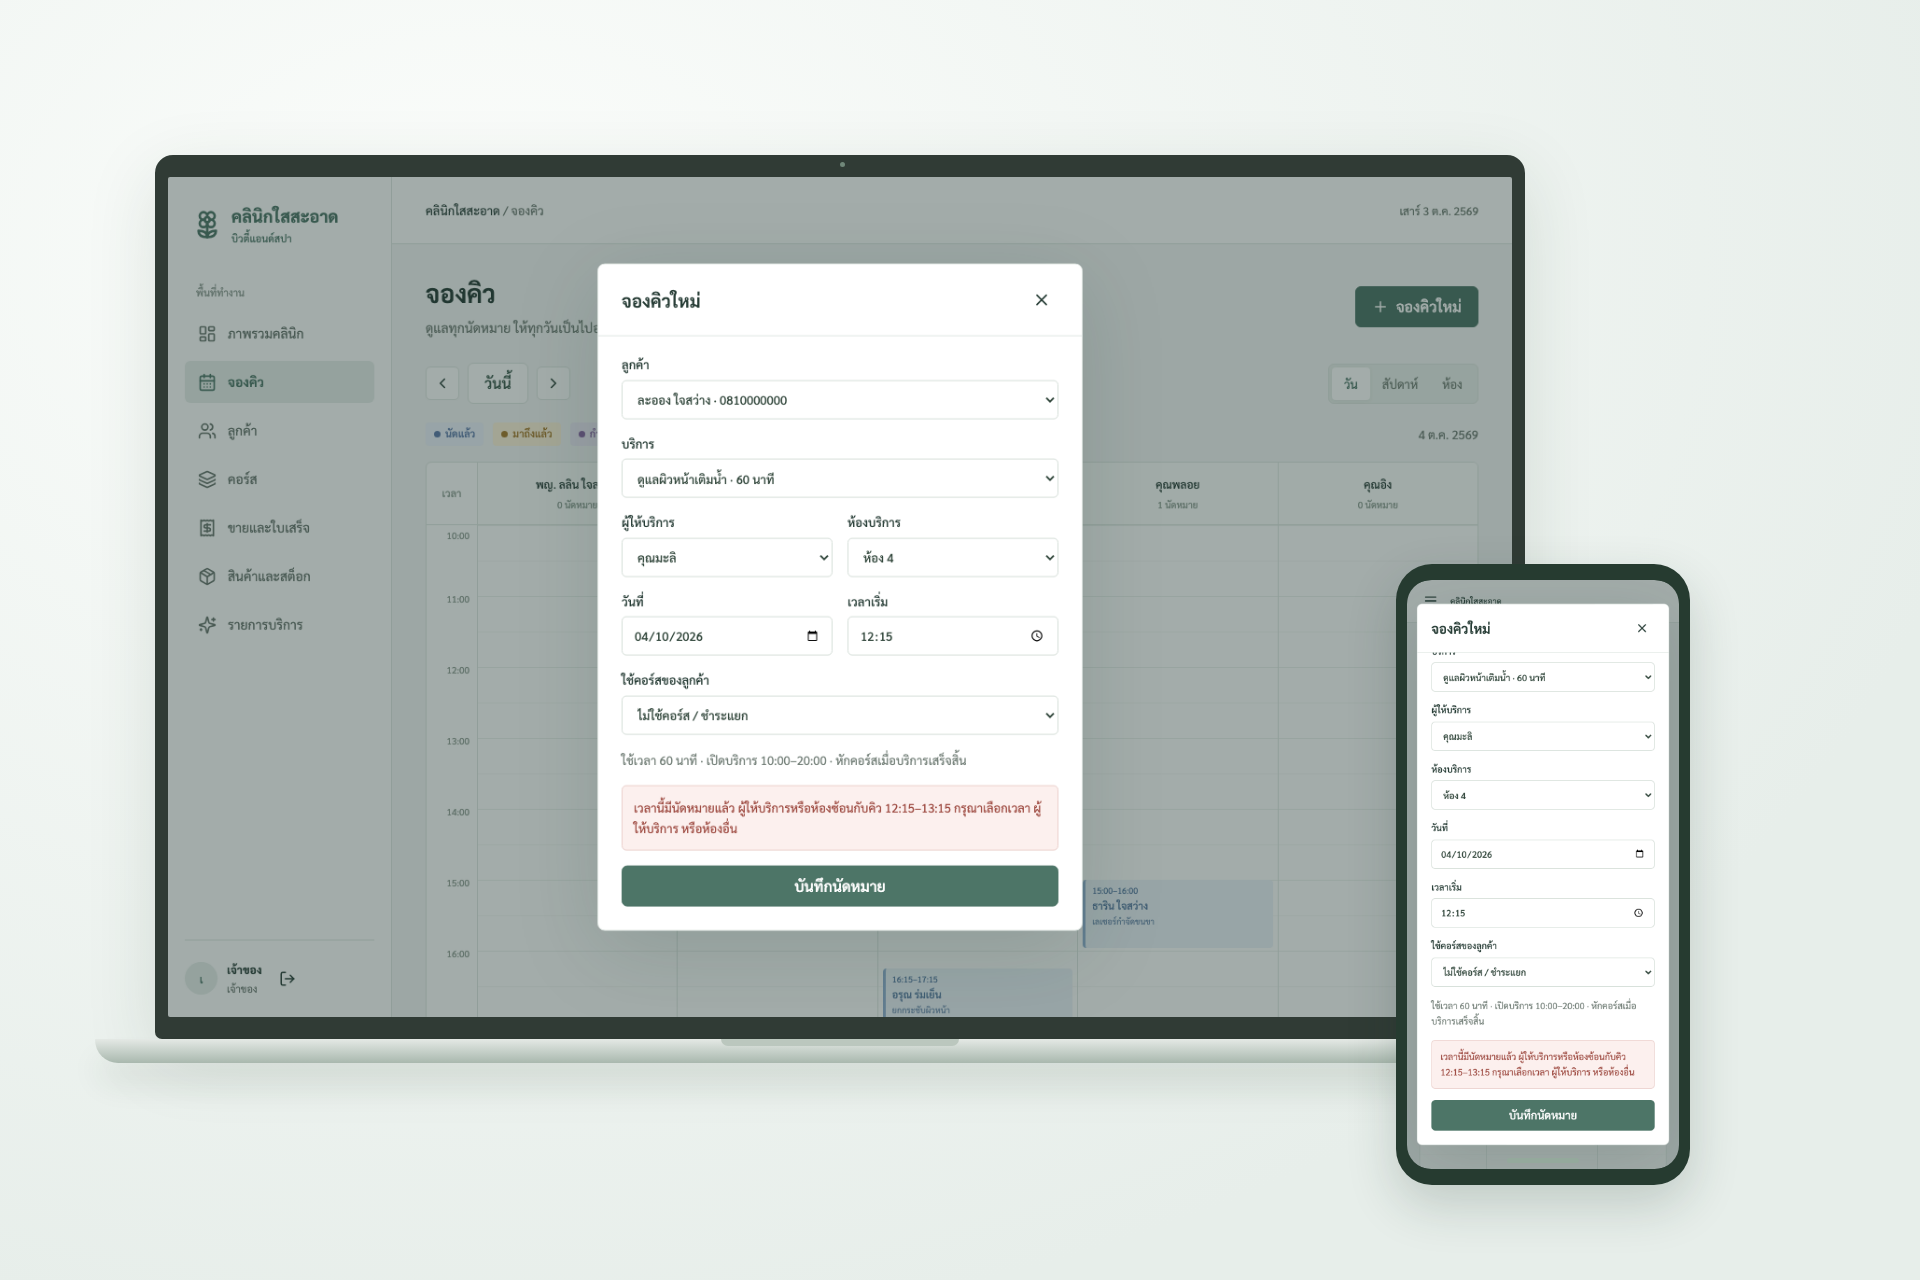
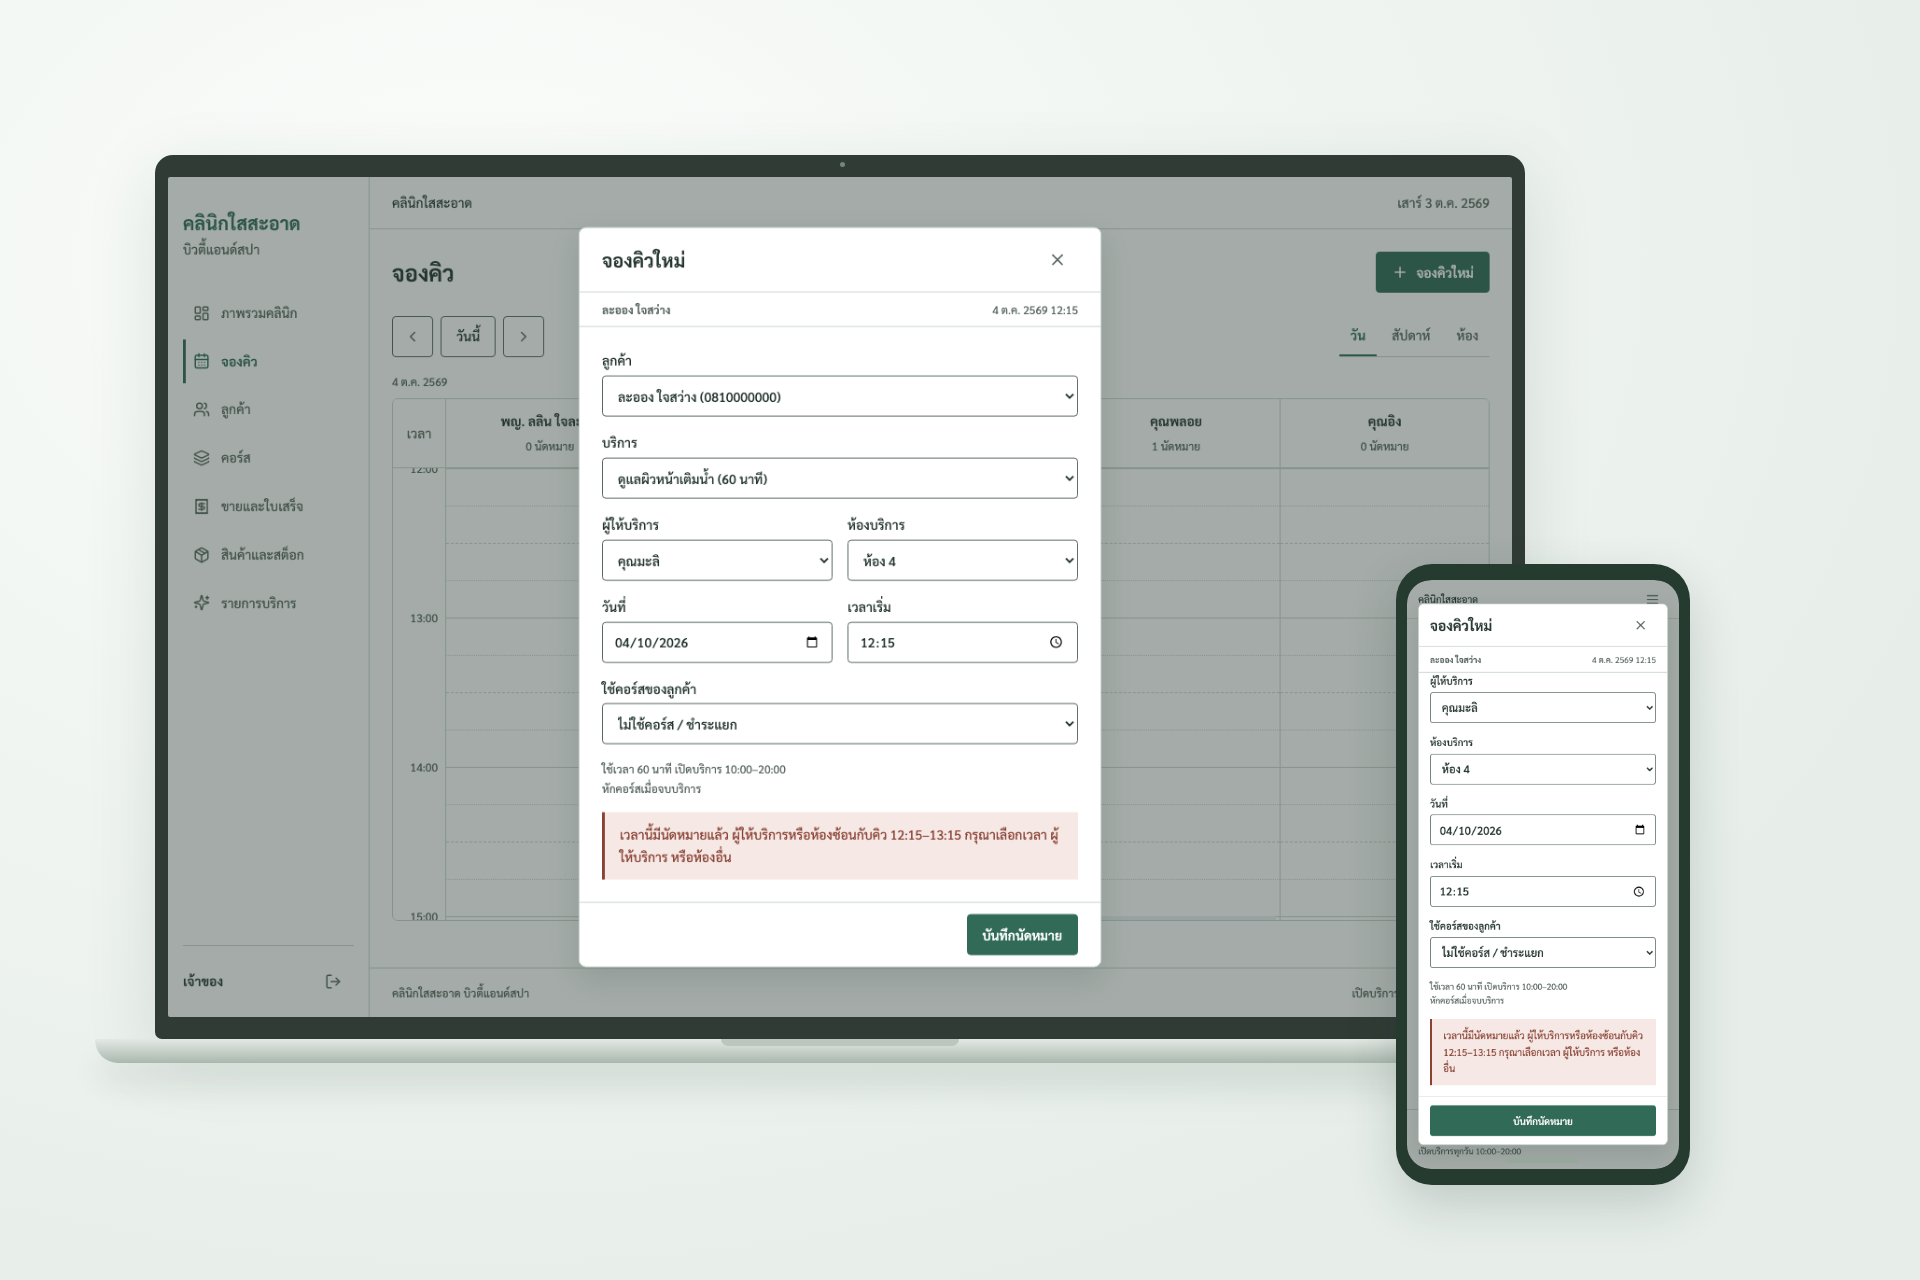
docs(layout): publish redesigned gallery and verification results

diff --git a/docs/DELIVERY.md b/docs/DELIVERY.md
@@ -1,5 +1,31 @@
 # Delivery Report
 
+## Approved UI Redesign
+
+Completed on 2026-10-03 following [DESIGN.md](DESIGN.md), with small Conventional
+Commits for the shell, dashboard, appointments, customers, courses, sales,
+inventory, treatment catalog and login. Production screenshots were regenerated
+and reviewed at both widths after each page. Domain types, services, business
+rules and routes are unchanged. The historical milestone table below describes
+the initial implementation; current assets contain **30 source PNGs and 15 galleries**.
+
+Shared tokens now control the clinic-jade palette, Thai-safe Sarabun scale,
+tabular/right-aligned numbers, purpose-specific radii, flat ledger structure,
+overlay-only elevation and static loading/reduced-motion behavior. Today’s book
+and rooms lead the dashboard; financial reports remain below. Course and stock
+counts are explicit, and mobile billing has separate catalog/bill views.
+
+Verification includes axe WCAG 2/2.1 A/AA checks on all main desktop/mobile pages,
+booking/receipt dialogs, the mobile drawer and a customer empty state; keyboard
+focus/return focus; measured equal numeral advances; actual PDF/XLSX downloads;
+and a first-viewport mobile appointment with the banner visible. Build, lint,
+12 service tests and dependency audit pass. Automated checks are not full
+accessibility certification; physical-device/assistive-technology testing remains.
+
+Recommended gallery leads: **customer profile**, **day appointments**, and
+**low stock**, for clear clinical context, real appointment geometry, and
+comparable quantities/actions on both devices. Dashboard is the best overview.
+
 ## Milestones
 
 | Milestone | Delivered                                                                                                                                         |
@@ -106,6 +132,10 @@ Every row below exists in all three directories. Desktop: 1440×900. Mobile:
 | Receipt preview  | [PNG](screenshots/desktop/receipt-preview.png)         | [PNG](screenshots/mobile/receipt-preview.png)         | [PNG](screenshots/gallery/receipt-preview.png)         |
 | Low stock        | [PNG](screenshots/desktop/inventory-low-stock.png)     | [PNG](screenshots/mobile/inventory-low-stock.png)     | [PNG](screenshots/gallery/inventory-low-stock.png)     |
 | Practitioner     | [PNG](screenshots/desktop/practitioner-schedule.png)   | [PNG](screenshots/mobile/practitioner-schedule.png)   | [PNG](screenshots/gallery/practitioner-schedule.png)   |
+| Customers        | [PNG](screenshots/desktop/customers.png)               | [PNG](screenshots/mobile/customers.png)               | [PNG](screenshots/gallery/customers.png)               |
+| Course sale      | [PNG](screenshots/desktop/course-sale.png)             | [PNG](screenshots/mobile/course-sale.png)             | [PNG](screenshots/gallery/course-sale.png)             |
+| Treatments       | [PNG](screenshots/desktop/treatments.png)              | [PNG](screenshots/mobile/treatments.png)              | [PNG](screenshots/gallery/treatments.png)              |
+| Login            | [PNG](screenshots/desktop/login.png)                   | [PNG](screenshots/mobile/login.png)                   | [PNG](screenshots/gallery/login.png)                   |
 
 **Failed/unclean captures: none.** Mobile sales focuses on the in-progress bill;
 mobile warning shows the actual rejected booking with the dialog scrolled to the

diff --git a/docs/DESIGN.md b/docs/DESIGN.md
@@ -1,7 +1,9 @@
 # Clinic Workspace Design
 
-**Status: approved on 2026-10-03; implementation in progress.** The user approved
-the plan. Preserve the audit below as the baseline and follow the per-page gates.
+**Status: approved and implemented on 2026-10-03.** Every redesigned page passed
+its production screenshot gate at both widths. The audit below is the historical
+baseline; original images remain in Git at commit `4e8f99f`, while the linked
+capture paths now show the approved redesign.
 
 ## 1. Intent and scope
 
@@ -496,6 +498,9 @@ Review verdict: **ready for approval, not implementation**. Main reason: the
 proposed information order follows a clinic day rather than a screenshot-friendly
 metric grid, and it fits the existing authorized data boundary.
 
+Implementation completed after approval. The original verdict above records the
+plan-stage review, not a remaining approval gate.
+
 ## 12. Implementation and verification gate (after approval only)
 
 1. Add central tokens and restyle shared primitives/shell through them.
@@ -539,3 +544,33 @@ metric grid, and it fits the existing authorized data boundary.
   stays inside the book. Focused labels are not clipped under sticky regions.
 - Static loading/reduced-motion behavior and AA contrast are verified, not inferred
   from screenshots. Existing build, lint, service and browser checks pass.
+
+## 13. Implementation results
+
+- All page changes use the central palette, Thai type scale, semantic state,
+  spacing and primitive tokens. Domain types, services, business rules and routes
+  have no diff from the approved-plan baseline.
+- Repeated KPI/cards/initials, promotional copy, middle-dot metadata, decorative
+  gradients and load animations were removed. Existing dates, prices, course
+  reservations, stock mutations and receipt generation are unchanged.
+- The production screenshot gate ran after each page. Coverage expanded from 22
+  to 30 screenshots to include customer directory, course-sale dialog, treatment
+  catalog and login; all 15 desktop/mobile pairs have gallery compositions.
+- Axe WCAG 2/2.1 A/AA checks pass for all main pages at 1440px and 390px, plus
+  the booking dialog, receipt, mobile drawer and customer empty state. Actual
+  success-toast contrast was repaired through the same status tokens.
+- Keyboard focus and focus return pass for booking dialogs/mobile drawer.
+  Reduced motion uses static loading/overlays. Sarabun numeral advances were
+  measured and are equal with tabular-numeral styling.
+- The real mobile dashboard, with the demo banner visible, shows a complete
+  appointment within the first viewport. PDF/XLSX downloads and role restrictions
+  still pass. Build, lint, 12 service tests and dependency audit pass.
+- These are automated Chromium checks and visual reviews, not a claim of full
+  accessibility certification. Safari/Firefox, assistive technology and physical
+  devices remain useful manual verification targets.
+
+Strongest service-gallery images: customer profile (precautions and session counts
+read cleanly on both devices), day calendar (real booking geometry and room/status
+context), and low stock (comparable quantities and clear movement actions).
+Dashboard is the strongest operational overview; it deliberately shows the
+appointment book rather than prioritizing a financial chart for the screenshot.

diff --git a/README.md b/README.md
@@ -27,7 +27,7 @@ Use a free port, for example `npm run dev -- --port 5187 --strictPort`.
 
 ## Features
 
-- Owner dashboard: daily revenue/statuses, six-month revenue, popular services,
+- Owner dashboard: today's appointment book and room context, daily revenue/statuses, six-month revenue, popular services,
   expiring courses, idle course customers and low-stock items.
 - Day/week practitioner calendars, room calendar, booking/edit/reschedule and
   status progression. Practitioner and room overlap/opening-hours validation.
@@ -37,17 +37,19 @@ Use a free port, for example `npm run dev -- --port 5187 --strictPort`.
 - Mixed treatment/course/product checkout, cash/transfer/card, Thai receipt
   preview and downloadable PDF. Actual XLSX exports for sales and stock.
 - Inventory receipts/issues and movement history; stock cannot go negative.
-- Mobile drawer, card lists, loading skeletons, empty states, confirmations,
+- Mobile drawer, compact ledgers, static loading skeletons, empty states, confirmations,
   toasts and screenshot mode (`?screenshot=1` before or after the hash).
 
 ## Stack and structure
 
 React 19, TypeScript, Vite, HashRouter, Tailwind CSS 4, source-owned shadcn/ui
 primitives (Radix + CVA), Recharts, lucide-react, date-fns, self-hosted Sarabun,
-ExcelJS, jsPDF/html2canvas, Vitest and Playwright.
+ExcelJS, jsPDF/html2canvas, Vitest, Playwright and axe-core accessibility checks.
 
 [Architecture](docs/ARCHITECTURE.md) defines routes, domain, service contracts,
 transactions and permissions. [Decisions](docs/DECISIONS.md) records assumptions.
+[Design system and verification](docs/DESIGN.md) defines the approved clinic-specific
+tokens, appointment-first layouts and plain Thai copy.
 UI never reads localStorage or seed data directly; all access is through services.
 Currency uses integer satang; displayed dates use Thai month names and Buddhist years.
 
@@ -96,7 +98,7 @@ to the server. All data must be server-authorized; never trust browser roles.
 
 [Capture index](docs/screenshots/README.md) · [Exact file manifest](docs/screenshots/manifest.json) · [Delivery report and verification checklist](docs/DELIVERY.md)
 
-22 source screenshots and 11 laptop/phone compositions. All requested scenarios
+30 source screenshots and 15 laptop/phone compositions. All requested scenarios
 captured cleanly. Set `GALLERY_WIDTH` / `GALLERY_HEIGHT` to change composition size.
 
 ![Owner dashboard, desktop and mobile](docs/screenshots/gallery/dashboard.png)
@@ -110,4 +112,12 @@ captured cleanly. Set `GALLERY_WIDTH` / `GALLERY_HEIGHT` to change composition s
 
 Additional compositions: [day appointments](docs/screenshots/gallery/appointments-day.png),
 [room calendar](docs/screenshots/gallery/appointments-room.png),
-[courses](docs/screenshots/gallery/courses.png).
+[courses](docs/screenshots/gallery/courses.png),
+[customer directory](docs/screenshots/gallery/customers.png),
+[course sale](docs/screenshots/gallery/course-sale.png),
+[treatments](docs/screenshots/gallery/treatments.png),
+[login](docs/screenshots/gallery/login.png).
+
+Recommended gallery leads: **customer profile**, **day appointments**, and
+**low stock**. They communicate real clinic tasks with readable quantities,
+precautions and room context on both devices. The dashboard is the best overview.

diff --git a/docs/screenshots/README.md b/docs/screenshots/README.md
@@ -18,11 +18,15 @@ Set `GALLERY_WIDTH` and `GALLERY_HEIGHT` or edit the constants at the top of
 | appointments-room       | Four-room timeline                            | Owner        |
 | booking-conflict        | Actual rejected overlapping booking           | Owner        |
 | customer-active-courses | Profile with active courses and precautions   | Owner        |
+| customers               | Searchable customer directory                 | Owner        |
 | courses                 | Active courses list                           | Owner        |
+| course-sale             | Course sale form with fixed save action       | Owner        |
 | sales-bill              | Treatment + course + product, unpaid bill     | Owner        |
 | receipt-preview         | Seeded mixed-sale Thai receipt                | Owner        |
 | inventory-low-stock     | Low-stock filtered retail/supply list         | Owner        |
+| treatments              | Grouped service, duration and price catalog   | Owner        |
 | practitioner-schedule   | Only the selected practitioner's appointments | Practitioner |
+| login                   | Clinic login form                             | Login screen |
 
 Each name has a `.png` in `desktop/`, `mobile/`, and `gallery/`. A generated
 `manifest.json` records the exact paths and capture timestamp. Week cells show the
@@ -30,5 +34,14 @@ first two appointments; the count link opens the full day. Mobile calendars are
 intentionally horizontally scrollable, not scaled to illegible text.
 
 The conflict screenshot is taken after the warning is visible, with the booking
-dialog scrolled to it on mobile. The receipt uses a seeded transaction to keep its
+dialog body scrolled to it on mobile; identity summary and save action remain
+visible. Mobile sales switches to the actual bill view and focuses the bill.
+The receipt uses a seeded transaction to keep its
 number reproducible. No scenario requires real customer data or a backend.
+
+Current total: **30 source PNGs and 15 compositions**. Strongest gallery leads:
+customer-active-courses, appointments-day, and inventory-low-stock. The first
+shows clinical precautions and explicit course counts, the second real interval
+geometry and room/status context, and the third comparative stock numbers and
+clear actions. All three retain useful mobile information instead of shrinking
+the desktop layout into unreadable cards.
